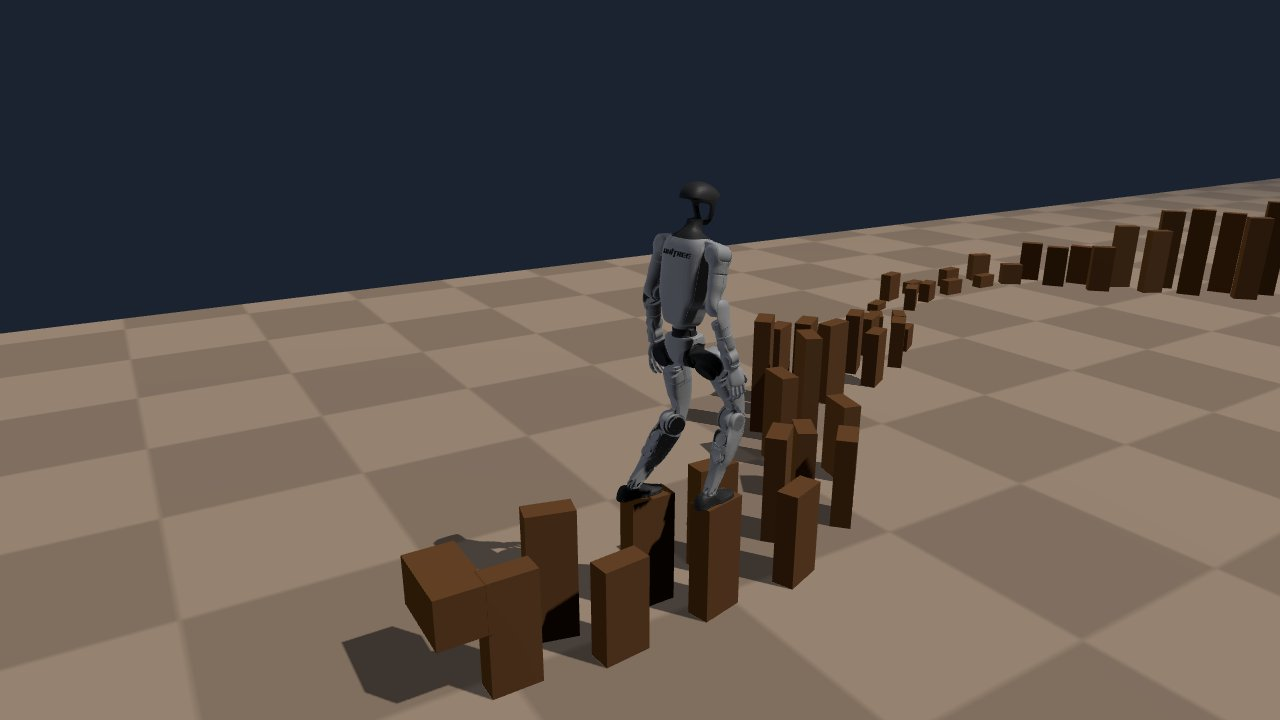
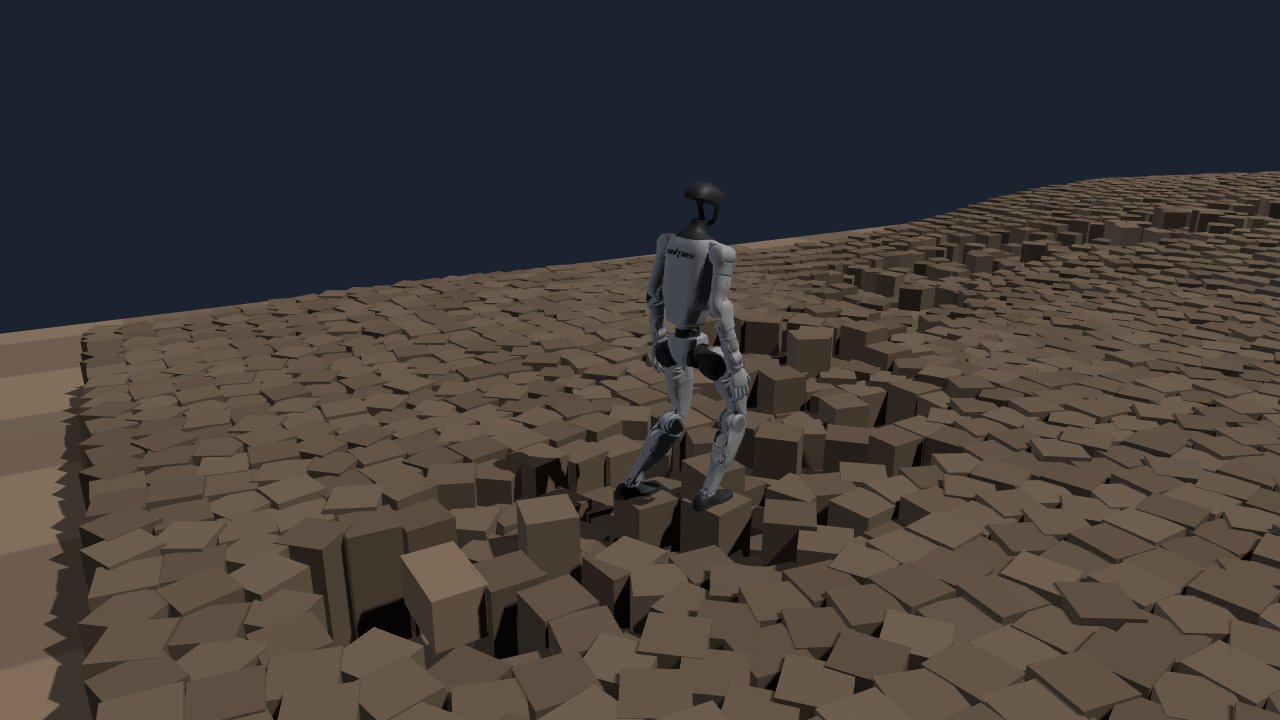
preview snapshot edit

diff --git a/index.html b/index.html
@@ -266,7 +266,7 @@
       </p> -->
       <div class="demo-frame">
         <button class="demo-launch" type="button" onclick="launchDemo(this)" aria-label="Launch the interactive simulation">
-          <img src="static/images/mujoco_demo_preview.jpg" alt="Unitree G1 stepping across randomly generated stepping stones in the browser simulation" loading="lazy"/>
+          <img src="static/images/mujoco_demo_preview.jpg?v=2" alt="Unitree G1 walking over randomly generated rocky terrain in the browser simulation" loading="lazy"/>
           <span class="demo-play"><i class="fas fa-play"></i> Launch simulation</span>
         </button>
       </div>
